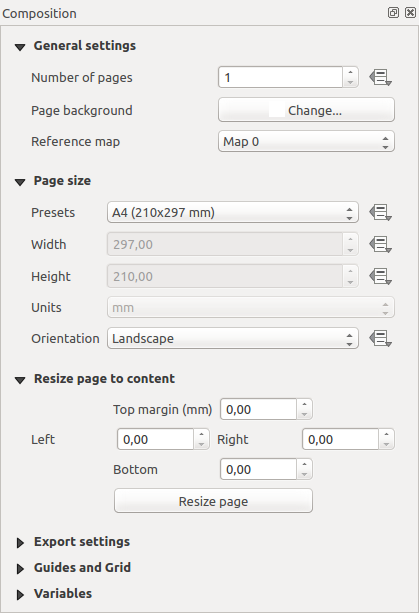
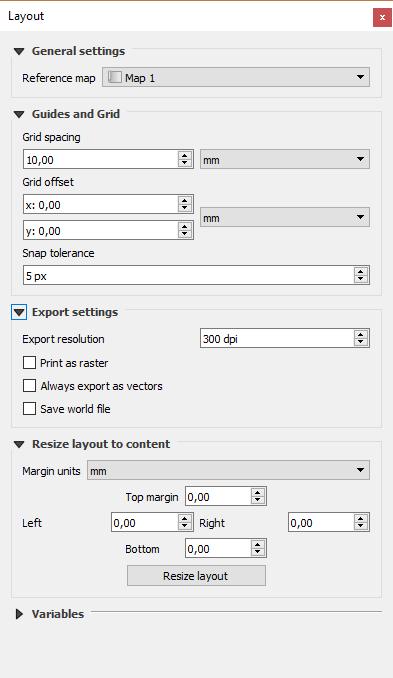
Add some layout screenshots

diff --git a/source/docs/user_manual/print_composer/overview_composer.rst b/source/docs/user_manual/print_composer/overview_composer.rst
@@ -247,7 +247,7 @@ information.
  |duplicateLayout| :guilabel:`Duplicate Layout`                               :guilabel:`Layout`         :ref:`layout_manager`
  |deleteSelected| :guilabel:`Delete Layout`
  |layoutManager| :guilabel:`Layout Manager...`                                :guilabel:`Layout`         :ref:`layout_manager`
- :menuselection:`Layouts —>`
+ :menuselection:`Layouts -->`
  :guilabel:`Layout Properties...`                                                                        :ref:`layout_panel`
  :guilabel:`Rename Layout...`
  |newPage| :guilabel:`Add Pages...`                                           :guilabel:`Layout`         :ref:`page_properties`
@@ -525,16 +525,11 @@ will always take precedence - since they have been manually set (hence,
 assumption that they have been explicitly placed at highly desirable snapping
 locations, and should be selected over the general grid).
 
-.. _figure_composition_grid:
+.. note::
 
-.. figure:: img/composition_guides.png
-   :align: center
-
-   Snapping to Grids in the Print Layout
-
-In the :menuselection:`Settings --> Layout Options` menu, you can also set
-the grid and guides parameters exposed above. However, these options will
-only apply as defaults to new print layouts.
+  In the :menuselection:`Settings --> Layout Options` menu, you can also set
+  the grid and guides parameters exposed above. However, these options will
+  only apply as defaults to new print layouts.
 
 .. _layout_export_settings:
 
@@ -568,12 +563,6 @@ by checking |checkbox| :guilabel:`Save world file`. The world file is created
 beside the exported map(s), has the name of the page output with the reference
 map item and contains information to georeference it easily.
 
-.. _figure_composition_export:
-
-.. figure:: img/composition_export.png
-   :align: center
-
-   Export Settings in the Print Layout
 
 Resize layout to content
 ........................
@@ -638,7 +627,13 @@ Pages` dialog opens and you are asked to fill:
   ``ft``... Conversion of entered values is automatically applied when switching
   from one unit to another.
 
-.. Todo: Add New page dialog screenshot
+.. _figure_layout_new_page:
+
+.. figure:: img/insert_page.png
+   :align: center
+
+   Creating a new page in the Print Layout
+
 
 Any page can be later customized through the Page :guilabel:`Item Properties`
 panel. Right-click on a page and select :guilabel:`Page Properties...`. The
@@ -653,7 +648,12 @@ panel. Right-click on a page and select :guilabel:`Page Properties...`. The
 * the :guilabel:`Background` using the :ref:`color <color-selector>` or
   :ref:`symbol <symbol-selector>` you want.
 
-.. Todo: Add page properties panel screenshot
+.. _figure_layout_page:
+
+.. figure:: img/page_properties.png
+   :align: center
+
+   Page properties dialog
 
 
 .. index:: Guides, Smart guides
@@ -672,6 +672,13 @@ To create a guide, two ways:
   ruler and release the mouse button within the page area, at the desired
   position.
 * more accurate and always available, use the :guilabel:`Guides` panel.
+
+.. _figure_layout_guides_panel:
+
+.. figure:: img/guides_panel.png
+   :align: center
+
+   The Guides panel
 
 The :guilabel:`Guides` panel allows creation of snap lines at specific
 locations: click the |signPlus| :sup:`Add new guide` button and enter

diff --git a/source/docs/user_manual/print_composer/composer_items/composer_items_options.rst b/source/docs/user_manual/print_composer/composer_items/composer_items_options.rst
@@ -216,6 +216,13 @@ Position and Size
 Based on the :guilabel:`New Item Properties` dialog, this group allows you to
 set:
 
+.. _figure_layout_new_item:
+
+.. figure:: img/new_item_properties.png
+   :align: center
+
+   New Item properties dialog
+
 * the actual number of the page to place the item on;
 * the reference point of the item;
 * the :guilabel:`X` and :guilabel:`Y` coordinate of the reference map in
@@ -226,9 +233,6 @@ set:
 * the :guilabel:`Width` and :guilabel:`Height` of the item bounding box. Like
   with coordinates, ratio between width and height can be locked and their
   values updated with changes applied to the other one.
-
-.. Todo: Add screenshot showing the new item properties dialog (not the
- position and size group)
 
 .. index:: Rendering mode
 .. _layout_Rendering_Mode:
